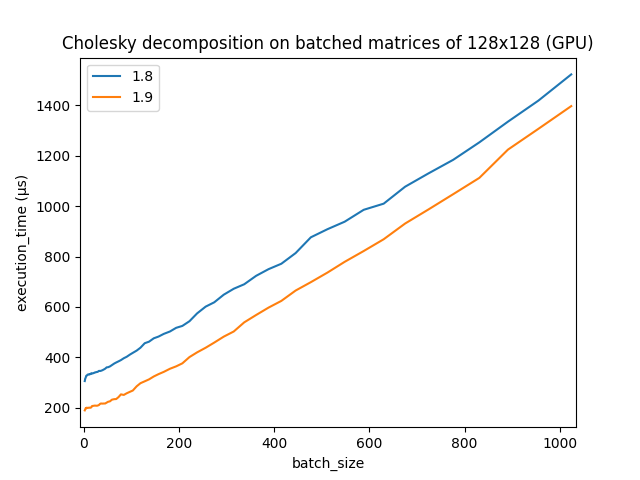
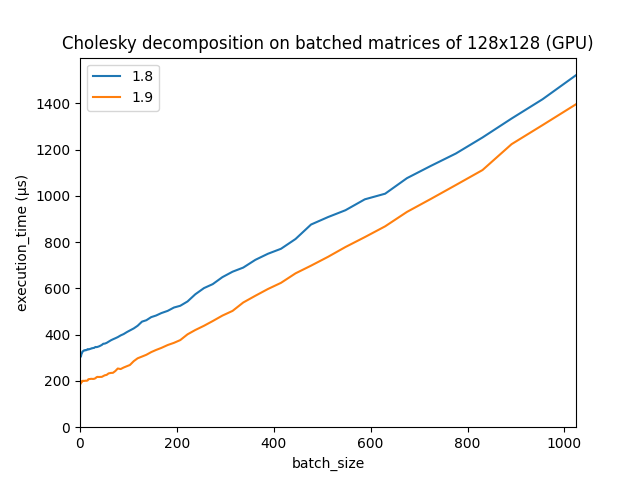
update plot

diff --git a/linalg/cholesky_benchmark_for_torch1.9/plot.py b/linalg/cholesky_benchmark_for_torch1.9/plot.py
@@ -44,10 +44,11 @@ sy19 = [j['1.9'][str(list(k))] for k in single_matrix]
 
 plt.plot(sx18, sy18)
 plt.plot(sx19, sy19)
-plt.xlim(min(sx19) - 10, max(sx19) + 10)
+plt.xlim(0, max(*sx18, *sx19))
+plt.ylim(0, max(*sy18, *sy19) * 1.05)
 plt.legend(['1.8', '1.9'])
 plt.title(f'Cholesky decomposition on single matrix (GPU)')
-plt.xlabel('matrix_size')
+plt.xlabel('matrix_size n of a square matrix (n x n)')
 plt.ylabel(u'execution_time (μs)')
 plt.savefig('single.png', transparent=True)
 
@@ -68,7 +69,8 @@ for mat_size in (4, 32, 128):
 
     plt.plot(sx18_b, sy18_b)
     plt.plot(sx19_b, sy19_b)
-    plt.xlim(min(sx19_b) - 10, max(sx19_b) + 10)
+    plt.xlim(0, max(*sx18_b, *sx19_b))
+    plt.ylim(0, max(*sy18_b, *sy19_b) * 1.05)
     plt.legend(['1.8', '1.9'])
     plt.title(f'Cholesky decomposition on batched matrices of {mat_size}x{mat_size} (GPU)')
     plt.xlabel('batch_size')
